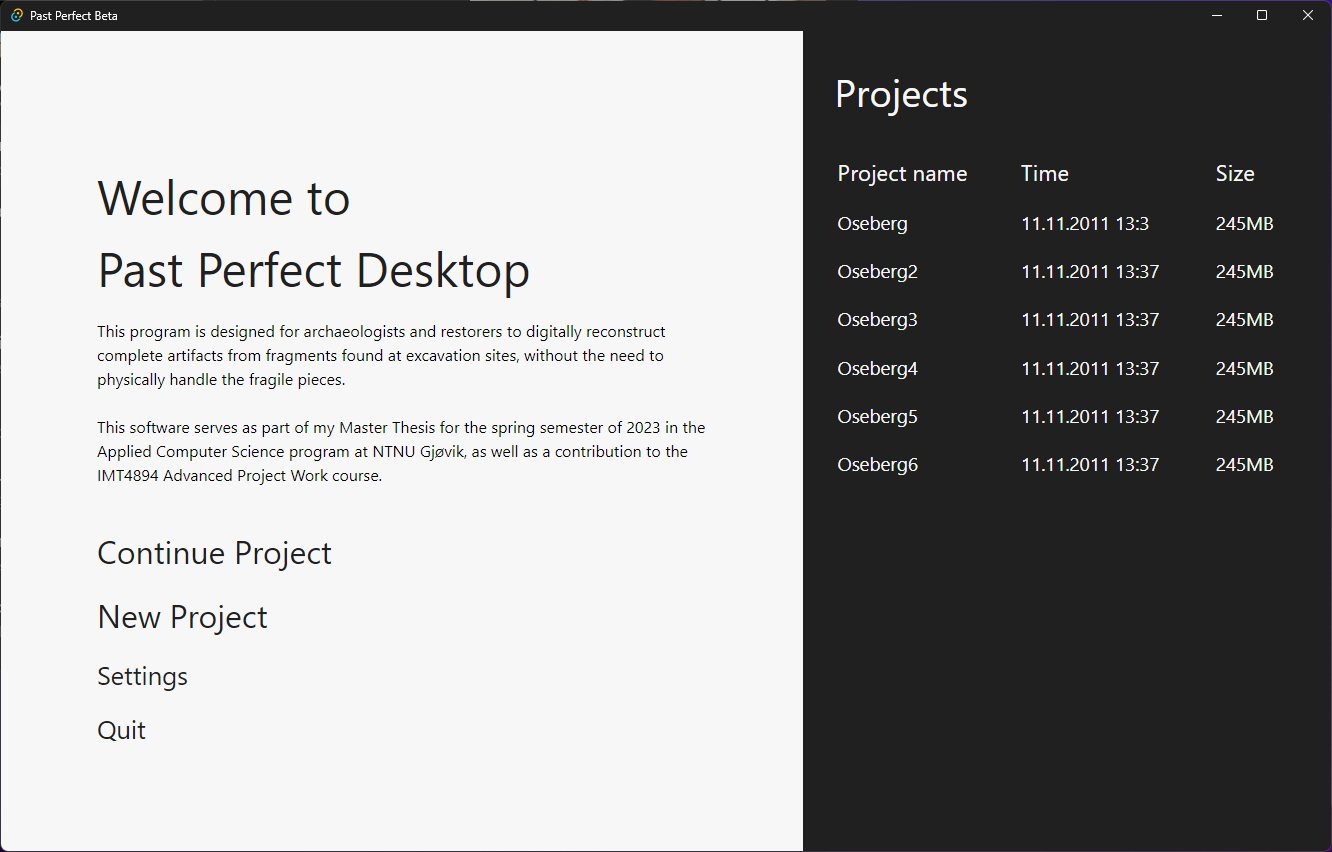
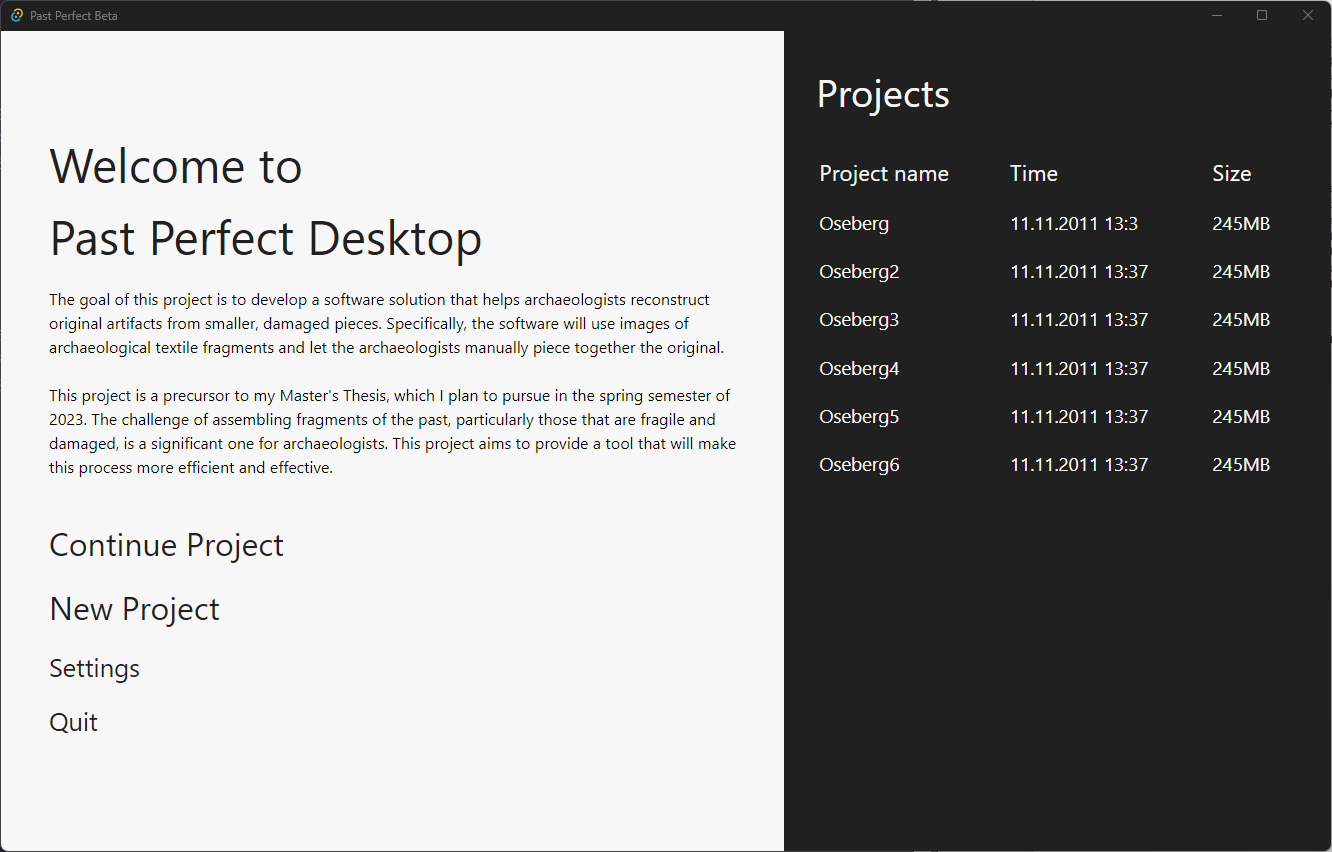
Change in text and screenshot

diff --git a/src/pages/LandingPage/LandingPage.jsx b/src/pages/LandingPage/LandingPage.jsx
@@ -14,15 +14,19 @@ const LandingPage = () => {
 					Welcome to <br /> Past Perfect Desktop
 				</h1>
 				<p>
-					This program is designed for archaeologists and restorers to digitally
-					reconstruct complete artifacts from fragments found at excavation
-					sites, without the need to physically handle the fragile pieces.
+					The goal of this project is to develop a software solution that helps
+					archaeologists reconstruct original artifacts from smaller, damaged
+					pieces. Specifically, the software will use images of archaeological
+					textile fragments and let the archaeologists manually piece together
+					the original.
 					<br />
 					<br />
-					This software serves as part of my Master Thesis for the spring
-					semester of 2023 in the Applied Computer Science program at NTNU
-					Gjøvik, as well as a contribution to the IMT4894 Advanced Project Work
-					course.
+					This project is a precursor to my Master's Thesis, which I plan to
+					pursue in the spring semester of 2023. The challenge of assembling
+					fragments of the past, particularly those that are fragile and
+					damaged, is a significant one for archaeologists. This project aims to
+					provide a tool that will make this process more efficient and
+					effective.
 					<br />
 					<br />
 				</p>

diff --git a/src/pages/LandingPage/LandingPage.css b/src/pages/LandingPage/LandingPage.css
@@ -9,7 +9,7 @@
 	height: 100vh;
 	gap: 1rem;
 	width: 100%;
-	padding: 8rem 6rem;
+	padding: 6rem 3rem;
 }
 
 .left-main p {

diff --git a/README.md b/README.md
@@ -1,13 +1,8 @@
 # Past Perfect Beta
 
-This program is designed for archaeologists and restorers to digitally
-reconstruct complete artifacts from fragments found at excavation
-sites, without the need to physically handle the fragile pieces.
+The goal of this project is to develop a software solution that helps archaeologists reconstruct original artifacts from smaller, damaged pieces. Specifically, the software will use images of archaeological textile fragments and let the archaeologists manually piece together the original object.
 
-This software serves as part of my Master Thesis for the spring
-semester of 2023 in the Applied Computer Science program at NTNU
-Gjøvik, as well as a contribution to the IMT4894 Advanced Project Work
-course.
+This project is a precursor to my Master's Thesis, which I plan to pursue in the spring semester of 2023. The challenge of assembling fragments of the past, particularly those that are fragile and damaged, is a significant one for archaeologists. This project aims to provide a tool that will make this process more efficient and effective.
 
 ## Author
 
